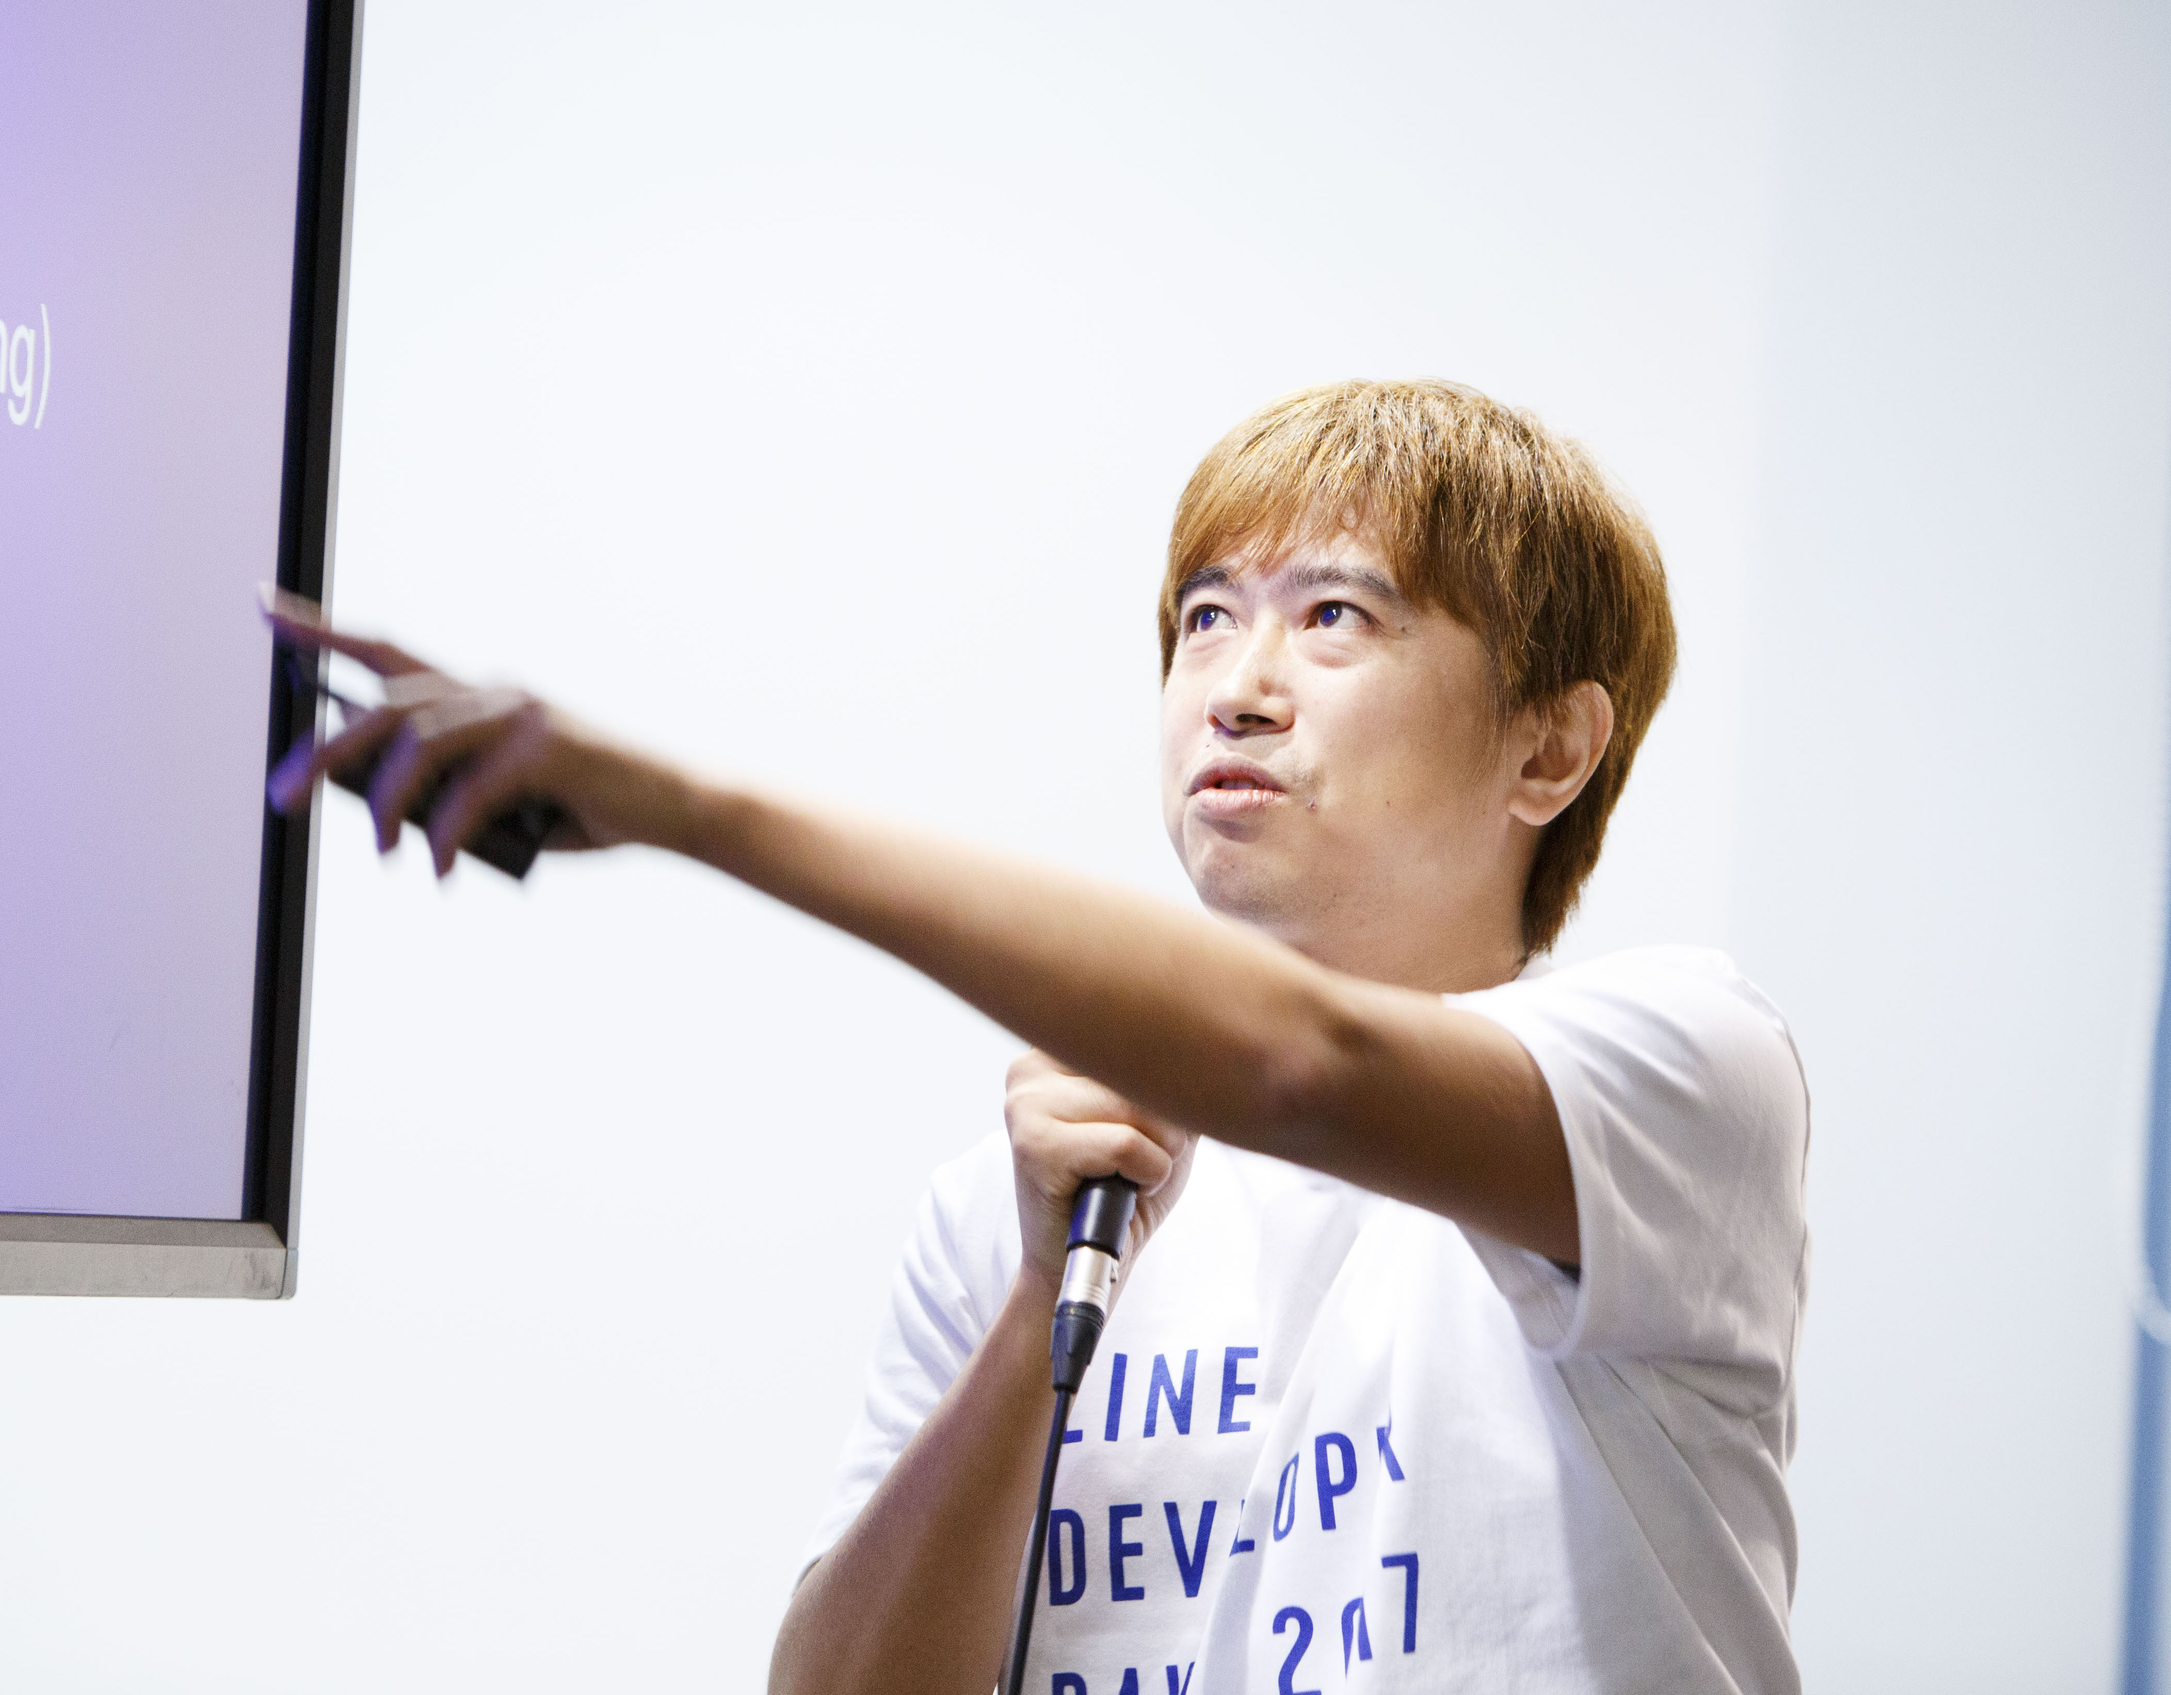
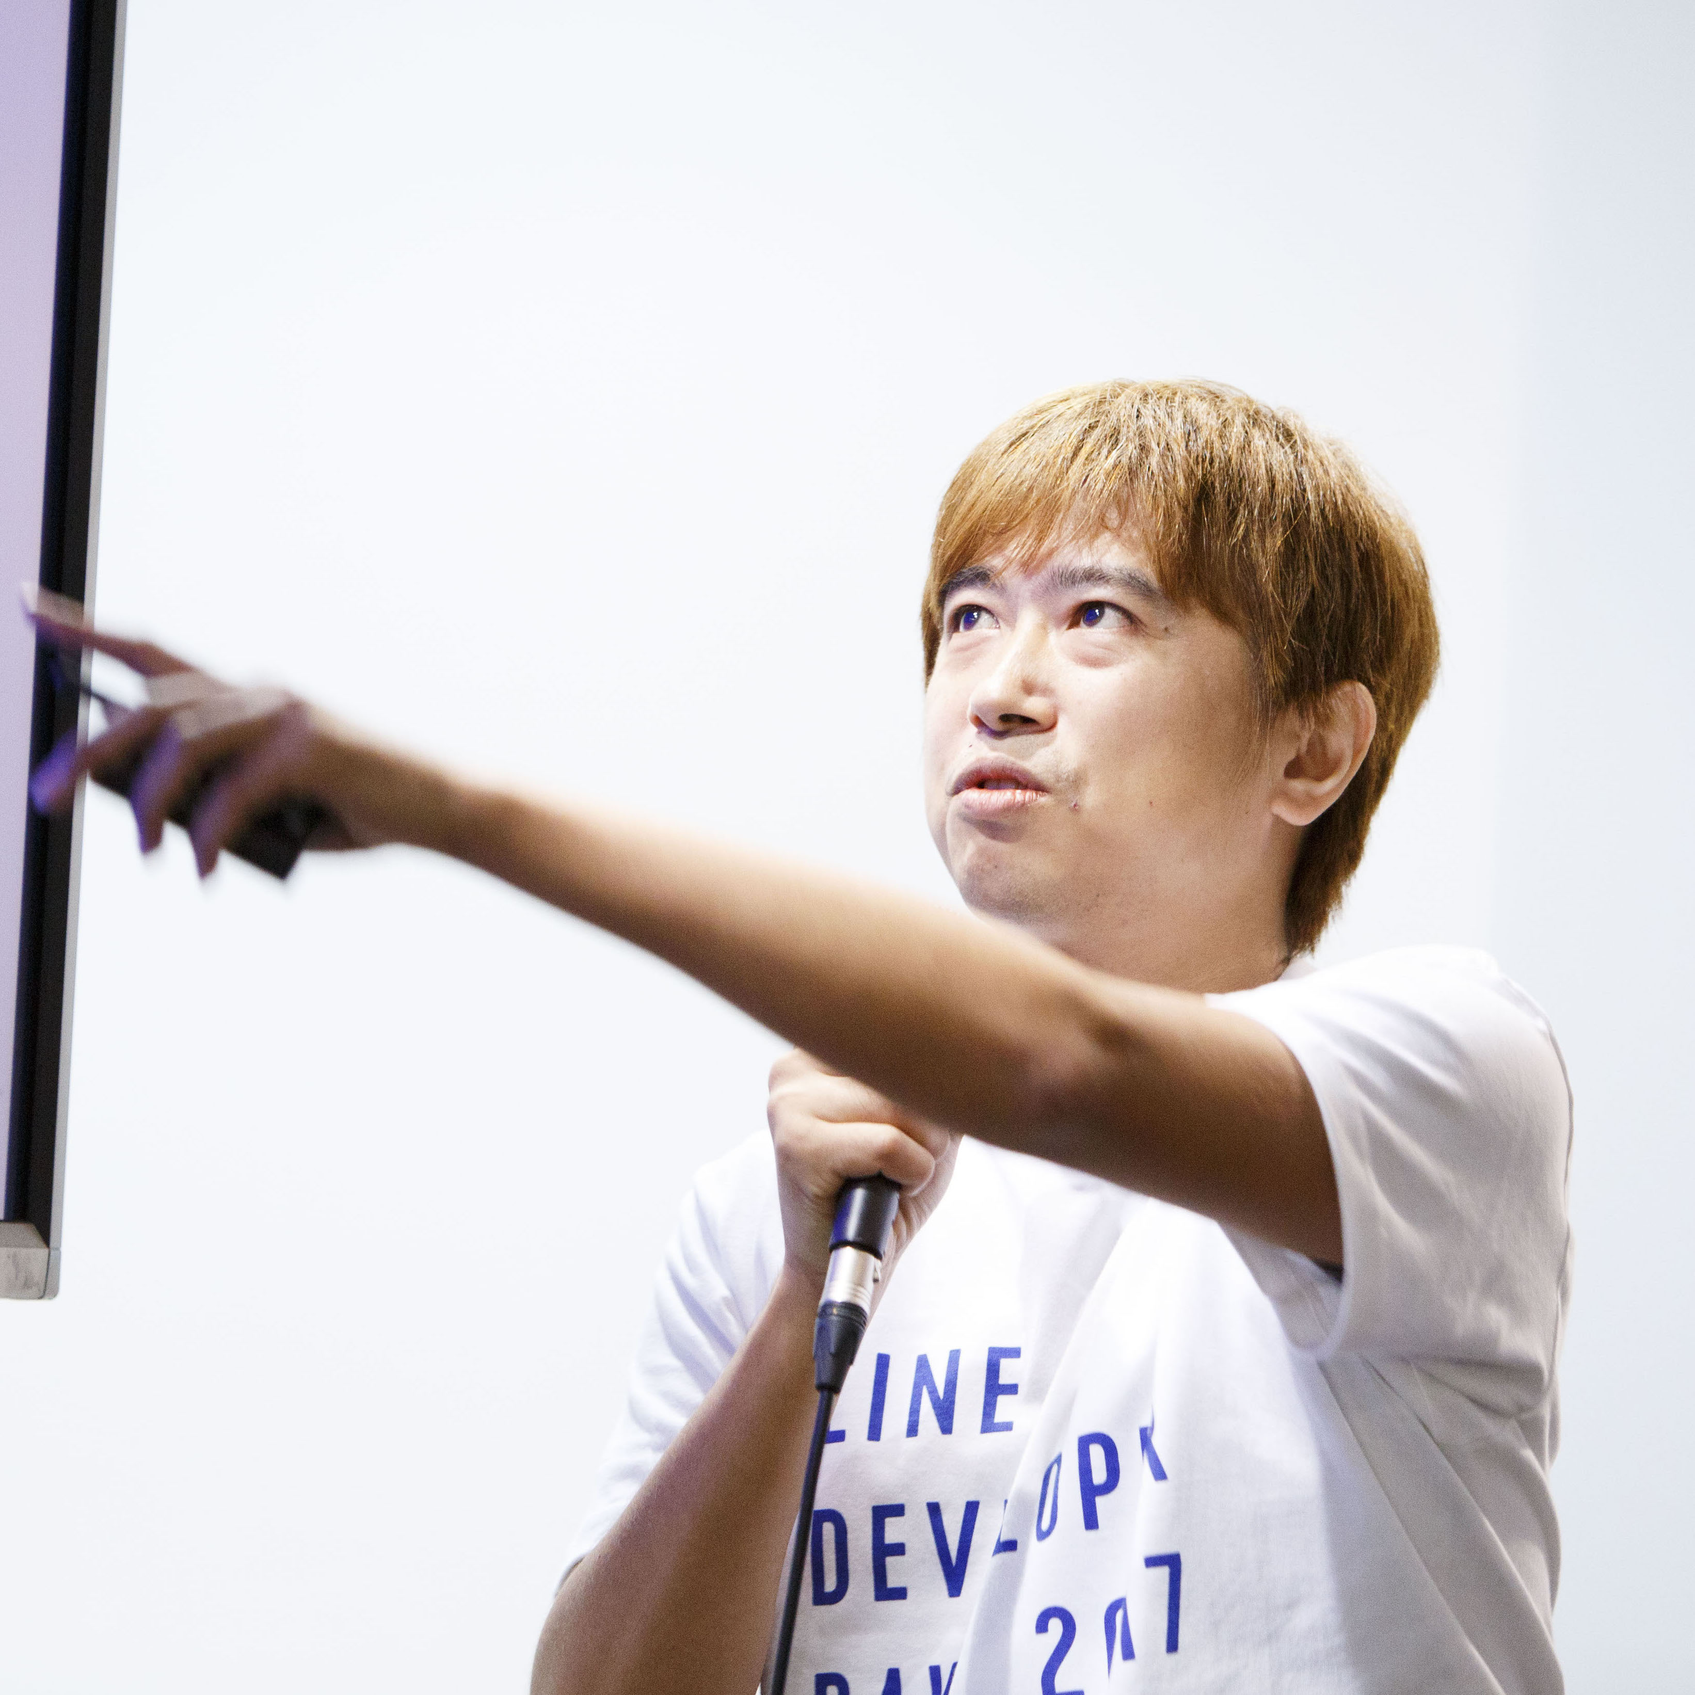
yappoさん正方形リサイズ

diff --git a/docs/2018okinawa/index.html b/docs/2018okinawa/index.html
@@ -139,7 +139,7 @@
   <h3 class="title">Guest Speakers</h3>
   <div class="body">
       <div class="row" id="NAME1">
-          <div class="col-md-3"><img src="./assets/images/guests/yappo.jpg?cachebuster=454953" class="img-circle"/></div>
+          <div class="col-md-3"><img src="./assets/images/guests/yappo.jpg?cachebuster=455160" class="img-circle"/></div>
           <div class="col-md-9">
           <h4>大沢 和宏 <a href="https://twitter.com/yappo" target="_blank">@yappo</a></h4>
           <p>広告代理店、モバイルポータル運営会社、受託開発会社などに勤務したのち、LINE株式会社にてサービス開発を行っている。 <br />
